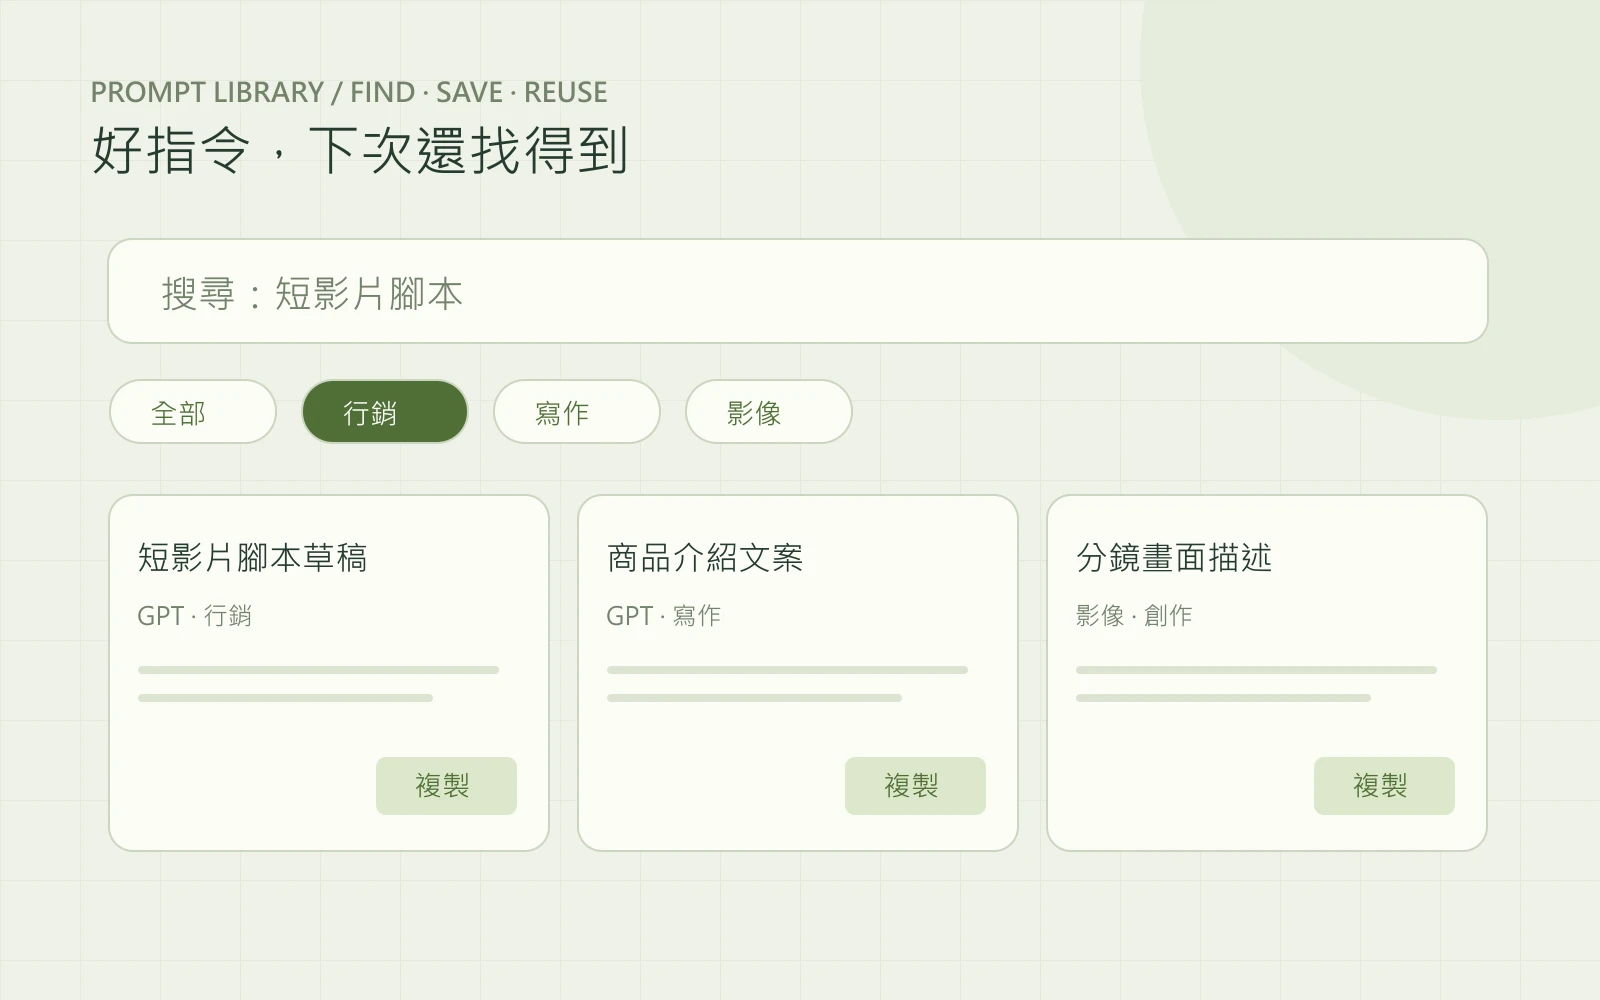
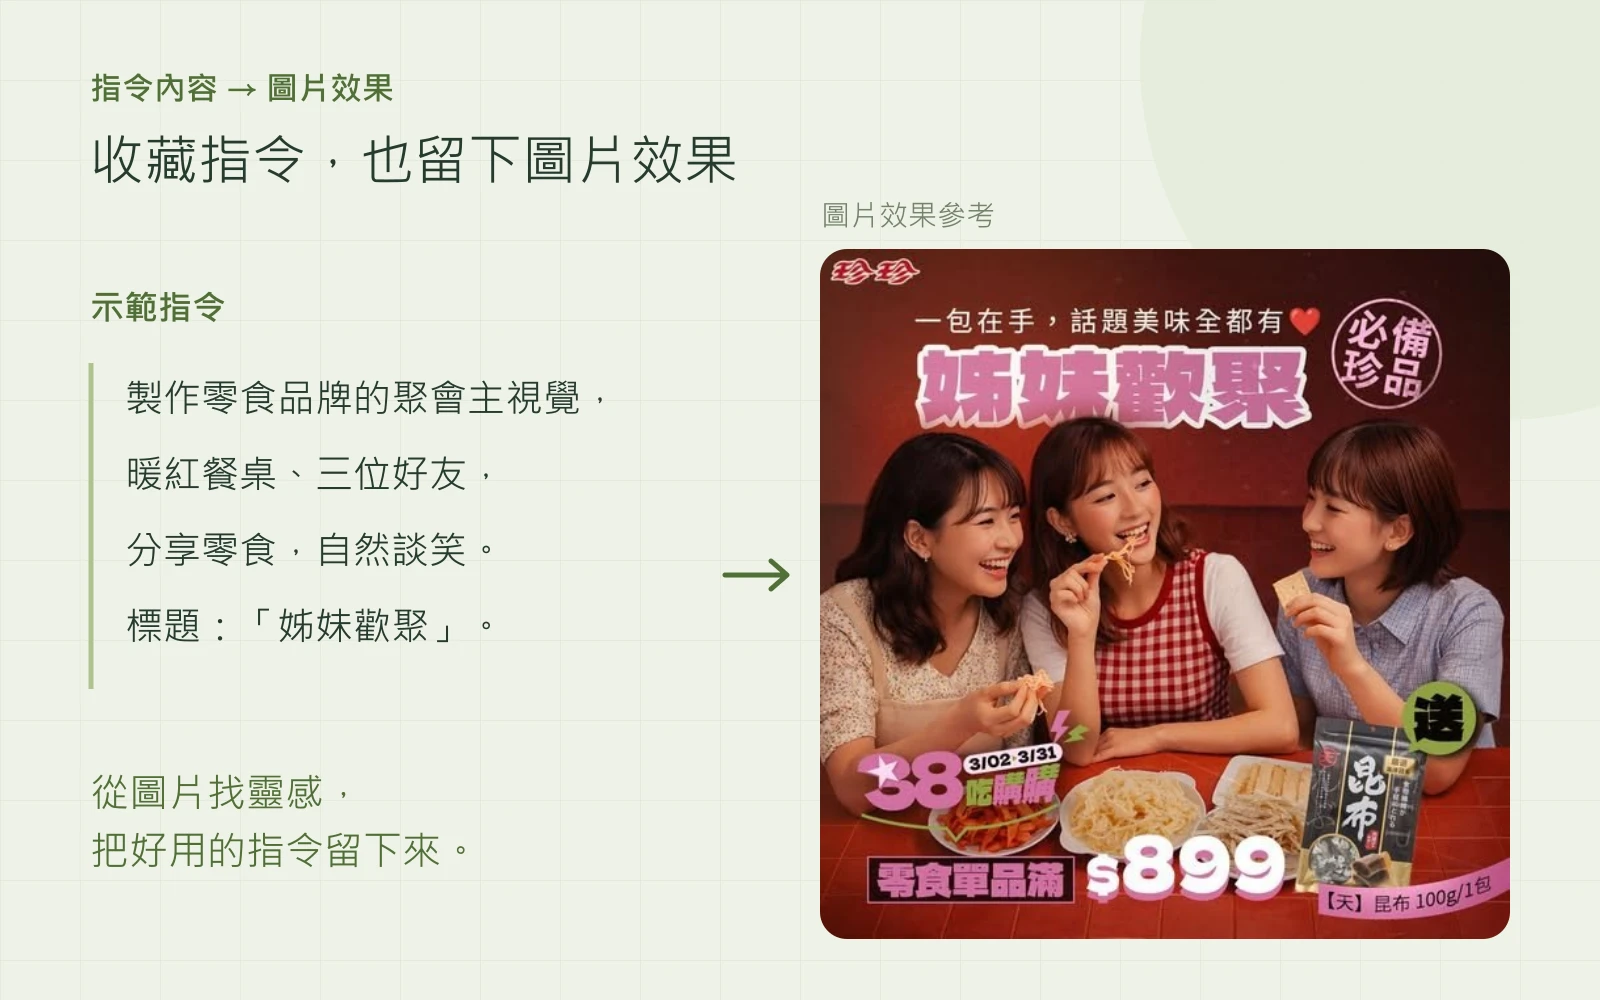
Add files via upload

diff --git a/assets/tool-room.js b/assets/tool-room.js
@@ -7,7 +7,7 @@
     {id:'line',short:'LINE 訊息',title:'LINE 訊息編排器',category:'行銷與活動',purpose:'訊息送出前，先看它長什麼樣。',description:'把圖片、文案與按鈕編成商品卡片，預覽手機裡的輪播訊息，再匯出 Flex Message。',path:'line-message.html',steps:['編排圖文','預覽手機訊息','匯出訊息'],alt:'商品圖片與文字編排在手機輪播訊息中，包含商品按鈕與多張卡片。'},
     {id:'utm',short:'UTM 連結',title:'UTM 連結產生器',category:'行銷與活動',purpose:'讓每個活動連結，都有清楚的來源。',description:'填入目的網址、來源、媒介與活動名稱，產生可用於流量分析的追蹤連結。',path:'utm-builder.html',steps:['填入網址','標記來源與活動','複製追蹤連結'],alt:'網址搭配來源 instagram、媒介 social 與活動 summer，合成帶有 UTM 參數的連結。'},
     {id:'raffle',short:'抽獎機',title:'抽獎機',category:'行銷與活動',purpose:'名單準備好，下一位幸運兒是誰？',description:'匯入名單、自訂獎項與名額，用抽獎球動畫揭曉得獎者，最後帶走得獎名單。',path:'raffle.html',imageVersion:'20260919-machine',steps:['匯入名單','設定獎項與人數','抽獎與複製結果'],alt:'抽獎工具實際的透明球槽、繽紛抽獎球與機台底座，右側為三位示範得獎者名單。'},
-    {id:'prompt',short:'AI 指令庫',title:'AI 指令庫',category:'工作整理',purpose:'好用的指令，下次還找得到。',description:'用關鍵字、平台與標籤找到常用指令，取用時直接複製；新增與管理需登入。',path:'prompt-library.html',steps:['搜尋指令','依標籤篩選','複製取用'],alt:'搜尋欄、行銷與寫作分類，以及可複製的指令卡片，示意指令收藏與搜尋。'}
+    {id:'prompt',short:'AI 指令庫',title:'AI 指令庫',category:'工作整理',purpose:'把指令與圖片效果一起收藏。',description:'保存指令內容與成果圖，透過關鍵字、平台和標籤找到需要的指令，再複製取用；新增與管理需登入。',path:'prompt-library.html',imageVersion:'20260920-prompt-image',steps:['查看成果圖','找到對應指令','複製取用'],alt:'左側是零食品牌聚會視覺的示範指令，右側是三位好友在暖紅餐桌分享零食的既有作品，示意指令與圖片一起收藏。'}
   ];
   function mount(container){
     const picker=container.querySelector('.yk-tool-picker'),showcase=container.querySelector('.yk-tool-showcase'),image=showcase.querySelector('img');
